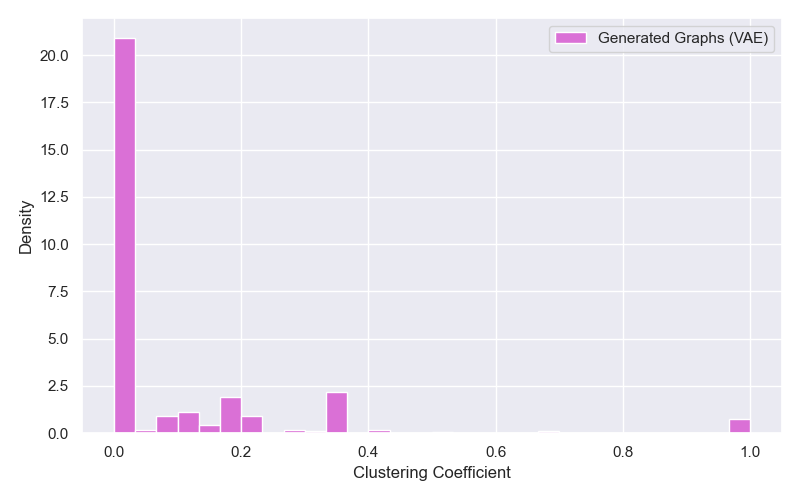
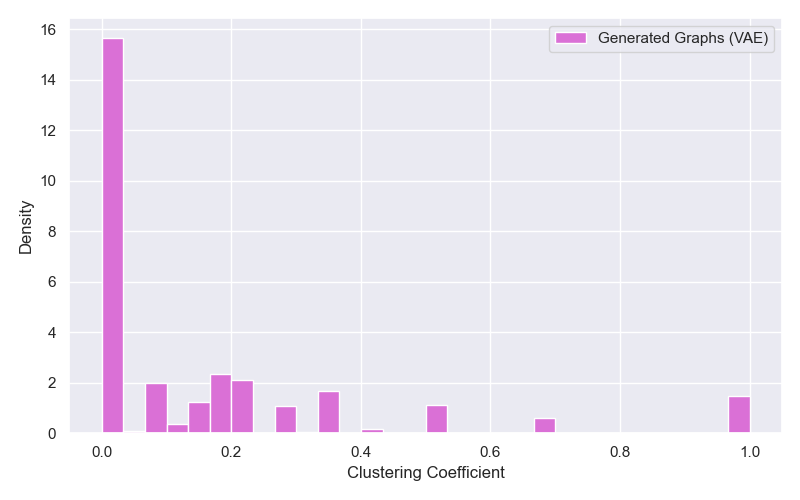
figs: compute some stats

diff --git a/main.py b/main.py
@@ -1,41 +1,192 @@
+# misc.
 from loguru import logger
 from tqdm import tqdm
+import networkx as nx
 
+# torch
 import torch
 from torch_geometric.utils import to_networkx
+from torch.nn import BCEWithLogitsLoss
+from torch_geometric.utils import to_networkx
+from torch_geometric.data import Batch
+from torch.optim.lr_scheduler import ExponentialLR
 
+# models
+from models.erdos_renyi import sample_erdos_renyi
+
+from models.gan import GraphGenerator
+from models.gan import GraphDiscriminator
+from models.gan import nx_to_data
+from models.gan import generate_graphs_with_gan
+
+
+from models.vae import GraphVAE
+from models.vae import train_vae
+from models.vae import generate_graphs_with_model
+
+# utils
 from utils.dataset_loader import load_full_dataset
 
-from models.erdos_renyi import sample_erdos_renyi
-from models.gnn_vae import GraphVAE, train_vae
-from models.gnn_generator import generate_graphs_with_model
+# evaluation
+from evaluation.statistics import compute_graph_statistics
+from evaluation.statistics import plot_graph_statistics
 
-from evaluation.statistics import compute_graph_statistics, plot_statistic_comparisons
 
-# Set device
-device = torch.device("cuda" if torch.cuda.is_available() else "cpu")
-
-# 1. Load the MUTAG dataset
+device = torch.device('cuda' if torch.cuda.is_available() else 'cpu')
 loader = load_full_dataset()
 
-# 2. Load empirical graphs
+
+# ========= Empirical Data =========
+
 empirical_graphs = [to_networkx(data, to_undirected=True) for data in loader.dataset]
 empirical_stats = compute_graph_statistics(empirical_graphs)
+plot_graph_statistics(data=empirical_stats, name="Empirical (MUTAG)", color='cornflowerblue', save_path="figs/mutag")
 
-# 3. Generate Erdős–Rényi graphs (baseline)
+# ========= Baseline - Erdos-Renyi =========
+
 er_graphs = sample_erdos_renyi(num_samples=1000)
 er_stats = compute_graph_statistics(er_graphs)
+plot_graph_statistics(data=er_stats, name="Erdős–Rényi", color='lightcoral', save_path="figs/er")
 
-# 4. Train GraphVAE and generate graphs
-logger.info("\nTraining GraphVAE...")
+# ========= Generative Model - GAN ==========
+
+# patience = 10
+# min_delta = 1e-3
+# best_g_loss = float('inf')
+# patience_counter = 0
+
+# # Hyperparameters
+# latent_dim = 32
+# num_nodes = 28
+# batch_size = 16
+# num_epochs = 100
+# lr = 1e-4
+
+# # Load real graphs
+# loader = load_full_dataset()
+# real_graphs = [to_networkx(data, to_undirected=True) for data in loader.dataset]
+
+# # Instantiate models
+# generator = GraphGenerator(latent_dim=latent_dim, num_nodes=num_nodes).to(device)
+# discriminator = GraphDiscriminator(num_node_features=1).to(device)
+
+# # Optimizers and loss
+# g_opt = torch.optim.Adam(generator.parameters(), lr=lr)
+# d_opt = torch.optim.Adam(discriminator.parameters(), lr=lr)
+# g_scheduler = ExponentialLR(g_opt, gamma=0.99)
+# d_scheduler = ExponentialLR(d_opt, gamma=0.99)
+
+# loss_fn = BCEWithLogitsLoss()
+
+# for epoch in range(1, num_epochs + 1):
+
+#     total_d_loss = 0
+#     total_g_loss = 0
+
+#     for _ in range(len(real_graphs) // batch_size):
+
+#         # === Train Discriminator ===
+#         discriminator.train()
+#         generator.eval()
+
+#         # Sample real graphs
+#         real_batch = real_graphs[:batch_size]
+#         real_data = [nx_to_data(g) for g in real_batch]
+#         real_labels = torch.full((batch_size,), 0.9, device=device)
+
+#         for d in real_data:
+#             d.batch = torch.zeros(d.num_nodes, dtype=torch.long)
+        
+#         real_data = Batch.from_data_list(real_data).to(device)
+#         #real_labels = torch.ones(real_data.num_graphs, device=device)
+#         # Trying 'label smoothing'
+#         real_labels = torch.full((batch_size,), 0.9, device=device)
+
+#         # Generate fake graphs
+#         z = torch.randn(batch_size, latent_dim).to(device)
+#         fake_graphs = generator(z)
+#         fake_data = [nx_to_data(g) for g in fake_graphs]
+
+#         for d in fake_data:
+#             d.batch = torch.zeros(d.num_nodes, dtype=torch.long)
+        
+#         fake_data = Batch.from_data_list(fake_data).to(device)
+#         fake_labels = torch.zeros(fake_data.num_graphs, device=device)
+
+#         # Forward pass
+#         d_real = discriminator(real_data)
+#         d_fake = discriminator(fake_data)
+
+#         # Loss and update
+#         d_loss = loss_fn(d_real, real_labels) + loss_fn(d_fake, fake_labels)
+#         d_opt.zero_grad()
+#         d_loss.backward()
+#         d_opt.step()
+
+
+#         # === Train Generator ===
+#         generator.train()
+#         discriminator.eval()
+
+#         z = torch.randn(batch_size, latent_dim).to(device)
+#         fake_graphs = generator(z)
+#         fake_data = [nx_to_data(g) for g in fake_graphs]
+
+#         for d in fake_data:
+#             d.batch = torch.zeros(d.num_nodes, dtype=torch.long)
+
+#         fake_data = Batch.from_data_list(fake_data).to(device)
+#         fake_labels = torch.ones(fake_data.num_graphs, device=device)  # trick D
+
+#         d_fake = discriminator(fake_data)
+#         g_loss = loss_fn(d_fake, fake_labels)
+
+#         # Some early stopping criteria
+
+#         g_opt.zero_grad()
+#         g_loss.backward()
+#         g_opt.step()
+
+#         total_d_loss += d_loss.item()
+#         total_g_loss += g_loss.item()
+    
+#     # Learning rate scheduler step
+#     g_scheduler.step()
+#     d_scheduler.step()
+
+#     logger.info(f"Epoch {epoch:03d} | D Loss: {total_d_loss:.4f} | G Loss: {total_g_loss:.4f}")
+
+
+# gan_graphs = generate_graphs_with_gan(
+#     generator=generator,
+#     num_samples=1000,
+#     latent_dim=latent_dim,
+#     batch_size=32,
+#     device=device
+# )
+
+# gan_stats = compute_graph_statistics(gan_graphs)
+# plot_graph_statistics(data=gan_stats, name="Generated Graphs (GAN)", color='mediumseagreen', save_path="figs/gen/gan")
+
+
+# ========= Generative Model - VAE ==========
+
+logger.info("Training GraphVAE...")
+
 in_channels = loader.dataset[0].num_node_features
 max_nodes = max(g.num_nodes for g in loader.dataset)
 
 logger.debug(f"In channels: {in_channels}")
 logger.debug(f"max nodes: {max_nodes}")
 
+# Hyperparameters
+
+hidden_channels = 64
+latent_dim = 32
+
+
 model = GraphVAE(
-    in_channels=in_channels, hidden_channels=64, latent_dim=32, max_nodes=max_nodes
+    in_channels=in_channels, hidden_channels=hidden_channels, latent_dim=latent_dim, max_nodes=max_nodes
 ).to(device)
 
 optimizer = torch.optim.Adam(model.parameters(), lr=1e-3)
@@ -44,15 +195,23 @@ optimizer = torch.optim.Adam(model.parameters(), lr=1e-3)
 epochs = 500
 progress_bar = tqdm(range(1, epochs + 1), desc="Training")
 
+
 for epoch in progress_bar:
     loss = train_vae(model, loader, optimizer, device)
     progress_bar.set_description(f"Epoch {epoch:03d}, Loss: {loss:.4f}")
 
+logger.success("Completed training GraphVAE")
+
+logger.info("Begin sampling...")
 # Generate graphs from the trained VAE
-gnn_graphs = generate_graphs_with_model(model, num_samples=1000, device=device)
-gnn_stats = compute_graph_statistics(gnn_graphs)
+vae_graphs = generate_graphs_with_model(model, num_samples=100, device=device)
+vae_stats = compute_graph_statistics(vae_graphs)
 
 # 5. Plot comparison of graph statistics
-plot_statistic_comparisons(
-    empirical_stats=empirical_stats, er_stats=er_stats, gnn_stats=gnn_stats
+plot_graph_statistics(
+    data=vae_stats, name="Generated Graphs (VAE)", 
+    color='orchid', save_path="figs/gen/vae"
 )
+
+
+

diff --git a/models/vae.py b/models/vae.py
@@ -18,7 +18,9 @@ class GraphEncoder(torch.nn.Module):
     def __init__(self, in_channels, hidden_channels, latent_dim, num_layers=3):
         super().__init__()
         self.convs = torch.nn.ModuleList()
+
         for i in range(num_layers):
+
             in_c = in_channels if i == 0 else hidden_channels
             nn = torch.nn.Sequential(
                 torch.nn.Linear(in_c, hidden_channels),
@@ -27,13 +29,17 @@ class GraphEncoder(torch.nn.Module):
                 torch.nn.ReLU(),
             )
             self.convs.append(GINConv(nn))
+
+
         self.lin_mu = torch.nn.Linear(hidden_channels, latent_dim)
         self.lin_logvar = torch.nn.Linear(hidden_channels, latent_dim)
 
     def forward(self, x, edge_index, batch):
+        
         for conv in self.convs:
             x = conv(x, edge_index)
             x = F.relu(x)
+        
         # Global add pooling to get graph-level embedding
         g = global_add_pool(x, batch)
         mu = self.lin_mu(g)
@@ -42,13 +48,16 @@ class GraphEncoder(torch.nn.Module):
 
 
 class GraphDecoder(torch.nn.Module):
+    
     def __init__(self, latent_dim, hidden_channels, max_nodes):
+    
         super().__init__()
         self.lin1 = torch.nn.Linear(latent_dim, hidden_channels)
         self.lin2 = torch.nn.Linear(hidden_channels, max_nodes * max_nodes)
         self.max_nodes = max_nodes
 
     def forward(self, z):
+    
         h = F.relu(self.lin1(z))
         adj_logits = self.lin2(h)  # shape [batch, N*N]
         # reshape to [batch, N, N]
@@ -56,10 +65,12 @@ class GraphDecoder(torch.nn.Module):
         adj_logits = adj_logits.view(batch_size, self.max_nodes, self.max_nodes)
         # force symmetry
         adj_logits = (adj_logits + adj_logits.transpose(1, 2)) / 2
+    
         return adj_logits
 
 
 class GraphVAE(torch.nn.Module):
+    
     def __init__(
         self, in_channels, hidden_channels, latent_dim, max_nodes, num_layers=3
     ):
@@ -76,16 +87,19 @@ class GraphVAE(torch.nn.Module):
 
     def forward(self, data):
         x, edge_index, batch = data.x, data.edge_index, data.batch
+
         mu, logvar = self.encoder(x, edge_index, batch)
         z = self.reparameterize(mu, logvar)
+        
         adj_logits = self.decoder(z)
 
         # Build target dense adjacency
         A = to_dense_adj(edge_index, batch, max_num_nodes=adj_logits.size(1))
+        
         return adj_logits, A, mu, logvar
 
     def loss(self, adj_logits, A, mu, logvar):
-        # Reconstruction: binary cross-entropy
+        # Reconstruction: BCE (with logits)
         recon_loss = F.binary_cross_entropy_with_logits(adj_logits, A, reduction="sum")
         # KL divergence
         kld = -0.5 * torch.sum(1 + logvar - mu.pow(2) - logvar.exp())
@@ -155,8 +169,6 @@ def generate_graphs_with_model(model, num_samples=1000, device="cpu", threshold=
             
         progress.update(1)
 
-        # if len(generated_graphs) >= num_samples:
-        #     break
 
     logger.info(
         f"Generated {len(generated_graphs)} connected graphs from {attempted} attempts"
